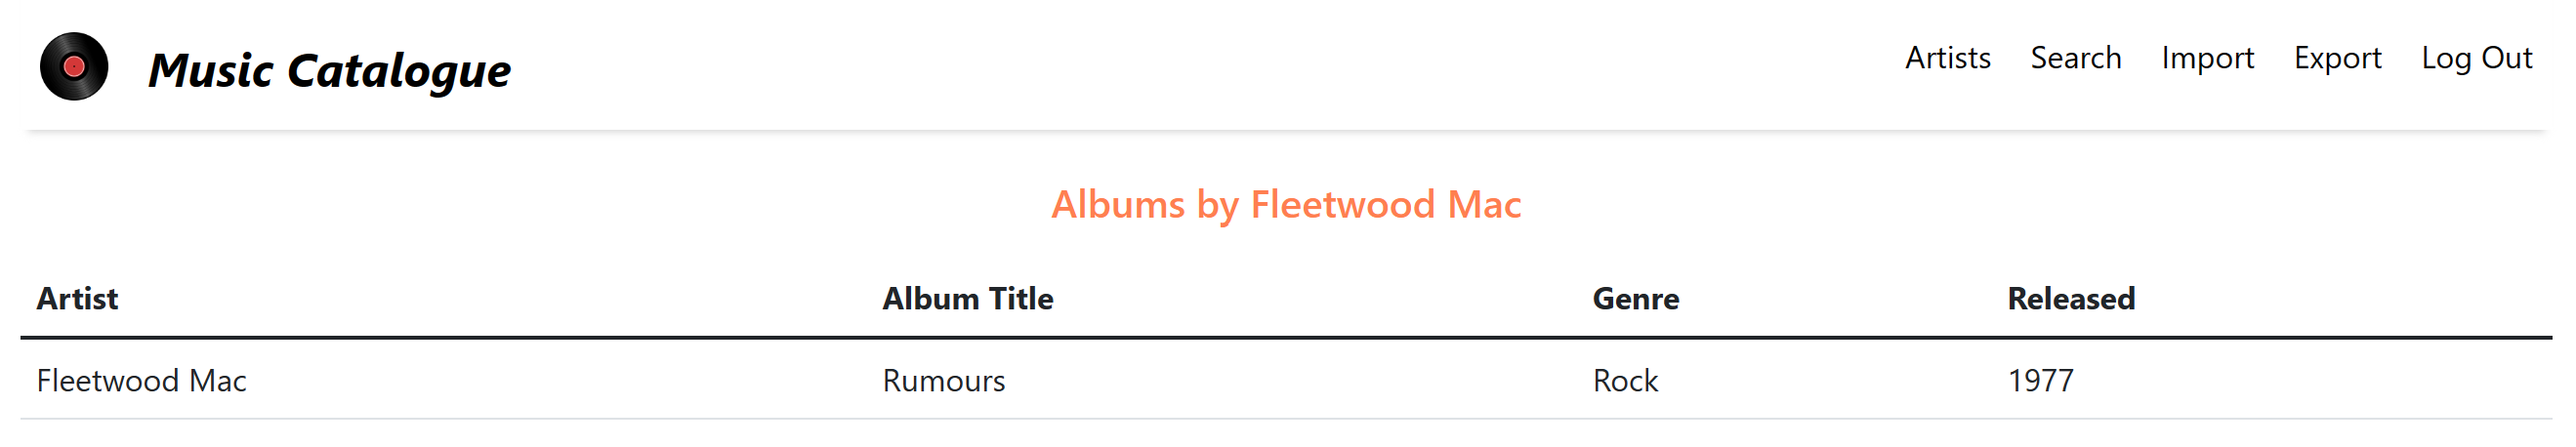
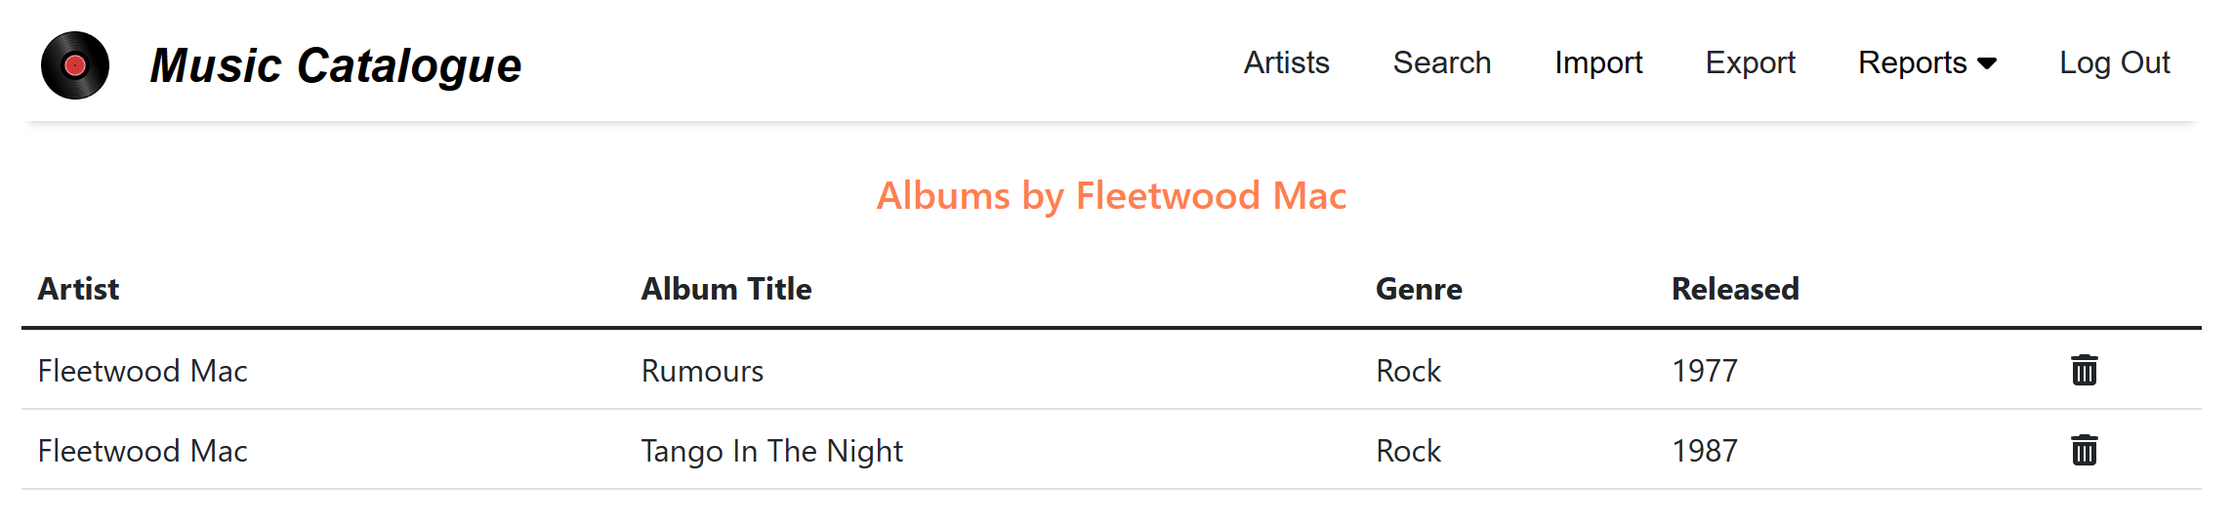
Add album deletion instructions to the README

diff --git a/README.md b/README.md
@@ -149,7 +149,8 @@ MusicCatalogue.LookupTool --lookup "John Coltrane" "Blue Train"
 <img src="diagrams/album-list.png" alt="Album List" width="600">
 
 - As the mouse pointer is moved up and down the table, the current row is highlighted
-- Clicking on a row opens the track list for the album shown in that row:
+- Clicking on the trash icon prompts for confirmation and, if confirmed, deletes the album shown in that row along with the associated tracks
+- Clicking anywhere else on a row opens the track list for the album shown in that row:
 
 <img src="diagrams/track-list.png" alt="Track List" width="600">
 
